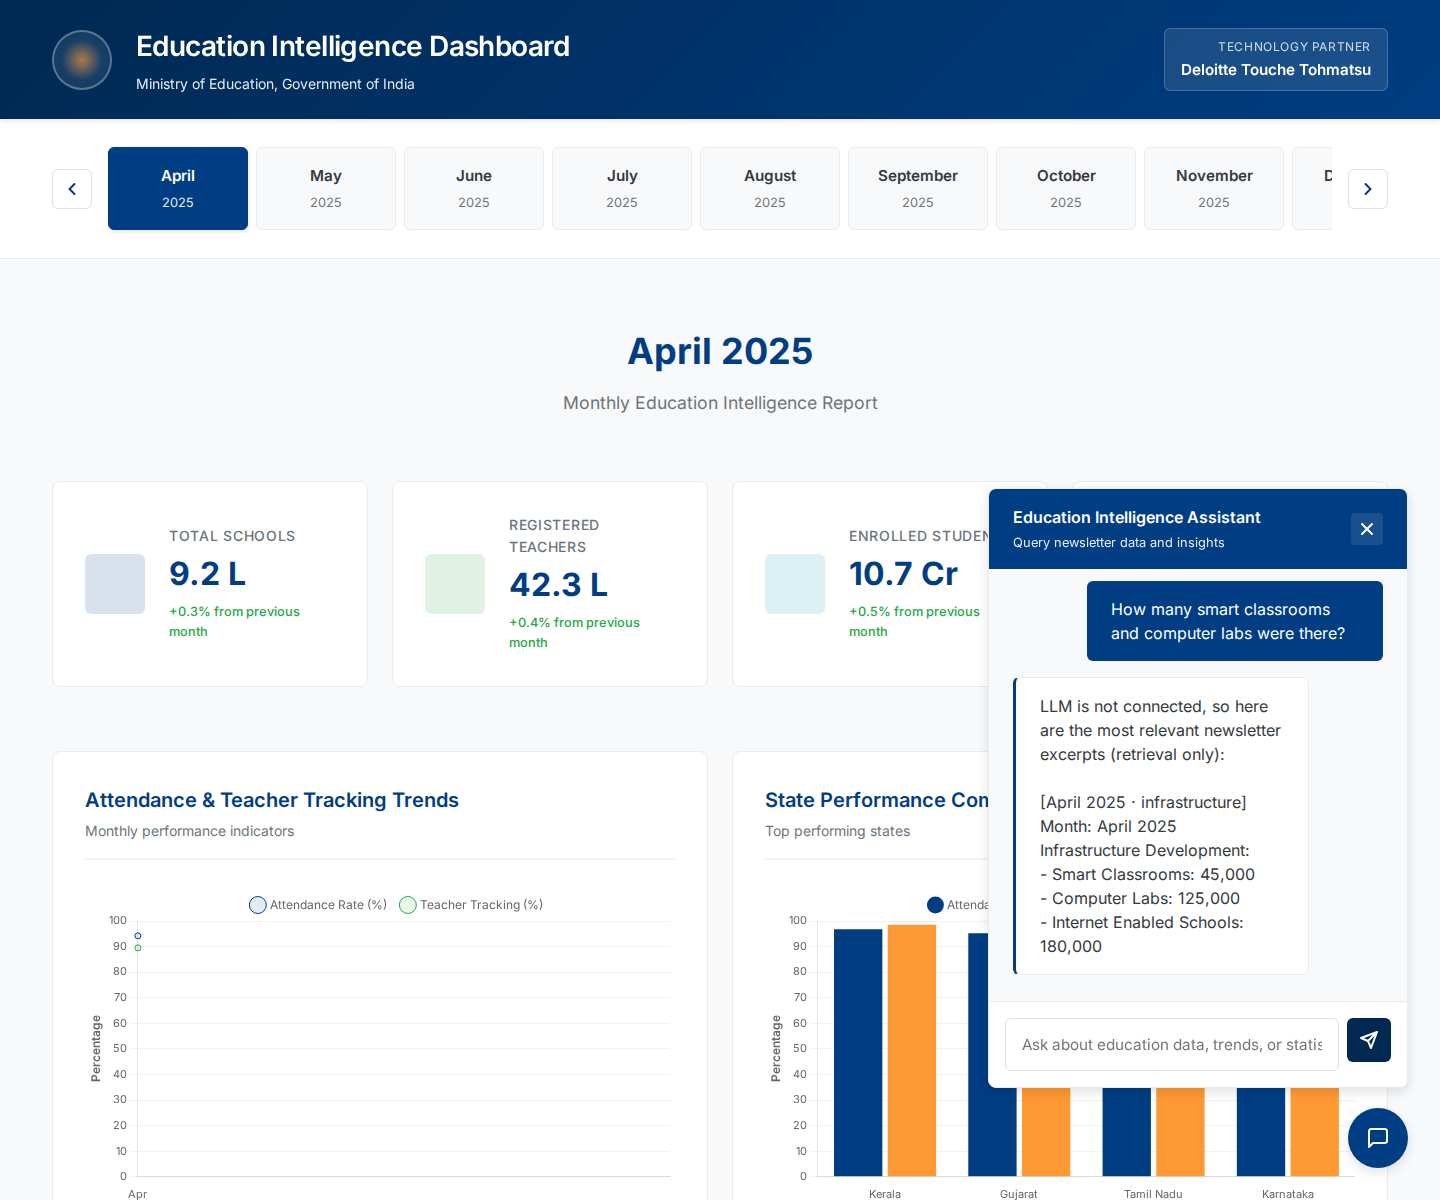
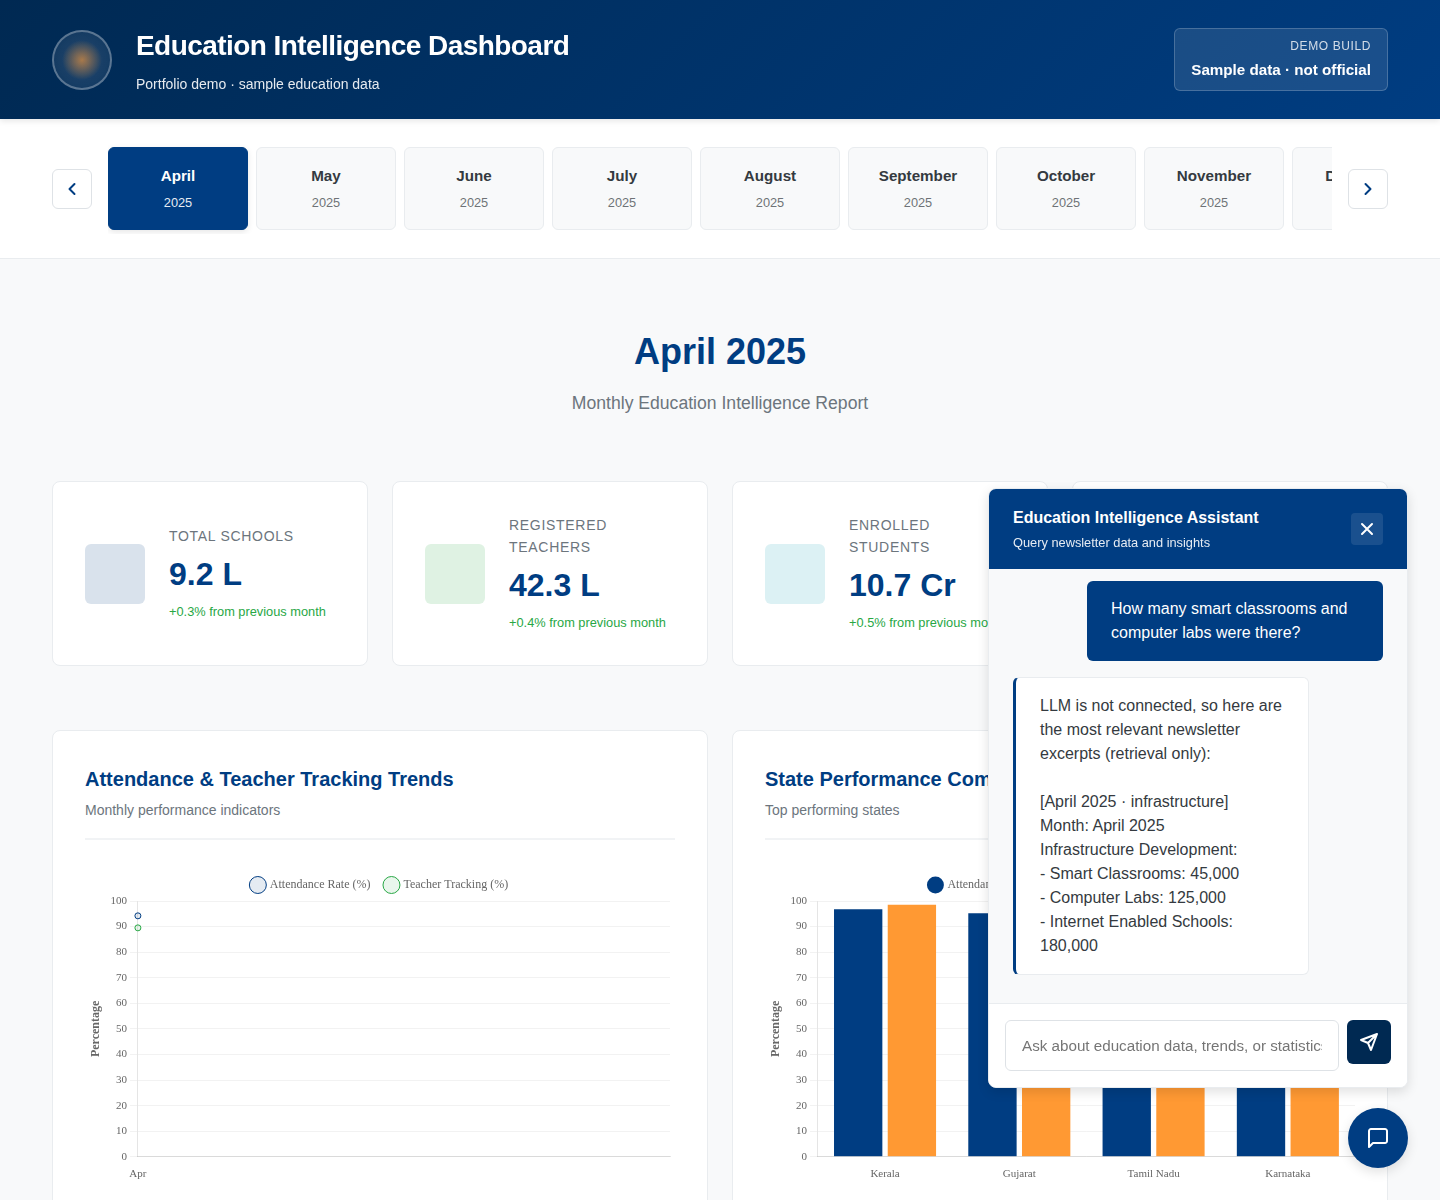
Make the repo a portfolio demo: MIT licence, sample-data labels, no official branding (#2)
- Replace the proprietary 'all rights reserved' notice with an MIT LICENSE and a
  clear portfolio-demonstration statement in the README.
- Remove the @deloitte.com contact addresses and the placeholder hotline.
- Reword the UI header, footer, file headers and LLM system prompt so nothing
  claims to be an official Government of India or Deloitte product.
- Drop the internal PR_DESCRIPTION.md.
- Recapture README screenshots with the new header.

Claude-Session: https://claude.ai/code/session_01JUKFYrHa2dmH3QAvjvrnEh

diff --git a/frontend/index.html b/frontend/index.html
@@ -3,8 +3,8 @@
 <head>
     <meta charset="UTF-8">
     <meta name="viewport" content="width=device-width, initial-scale=1.0">
-    <title>Education Intelligence Dashboard | Ministry of Education</title>
-    <meta name="description" content="Official Education Intelligence Command Center - Ministry of Education, Government of India">
+    <title>Education Intelligence Dashboard | Portfolio demo</title>
+    <meta name="description" content="Education Intelligence Dashboard: a portfolio demonstration of semantic search and a local-LLM chatbot over sample education data">
 
     <!-- Fonts -->
     <link rel="preconnect" href="https://fonts.googleapis.com">
@@ -25,13 +25,13 @@
                 <div class="govt-emblem"></div>
                 <div class="header-title">
                     <h1>Education Intelligence Dashboard</h1>
-                    <p>Ministry of Education, Government of India</p>
+                    <p>Portfolio demo · sample education data</p>
                 </div>
             </div>
             <div class="header-right">
                 <div class="partner-badge">
-                    <span class="partner-label">Technology Partner</span>
-                    <span class="partner-name">Deloitte Touche Tohmatsu</span>
+                    <span class="partner-label">Demo build</span>
+                    <span class="partner-name">Sample data · not official</span>
                 </div>
             </div>
         </div>
@@ -197,7 +197,7 @@
             <div class="chatbot-messages" id="chatbotMessages">
                 <div class="message assistant">
                     <div class="message-content">
-                        Welcome to the Education Intelligence Assistant. I can help you analyze newsletter data, compare metrics, and provide insights from the Ministry of Education reports.
+                        Welcome to the Education Intelligence Assistant. I can help you analyze newsletter data, compare metrics, and provide insights from the sample education reports.
                     </div>
                 </div>
             </div>
@@ -224,12 +224,12 @@
         <div class="container">
             <div class="footer-content">
                 <div class="footer-left">
-                    <p>&copy; 2026 Ministry of Education, Government of India</p>
+                    <p>&copy; 2026 Akshat Banga · MIT licence</p>
                     <p class="footer-subtitle">Education Intelligence Command Center</p>
                 </div>
                 <div class="footer-right">
                     <p>Powered by AI-Enhanced Analytics</p>
-                    <p class="footer-subtitle">Technology Partner: Deloitte Touche Tohmatsu</p>
+                    <p class="footer-subtitle">Independent portfolio demo; not an official government or Deloitte product</p>
                 </div>
             </div>
         </div>

diff --git a/frontend/css/style.css b/frontend/css/style.css
@@ -1,12 +1,11 @@
 /* =============================================================================
    Education Intelligence Dashboard - Government Grade Styling
-   Ministry of Education, Government of India
-   Technology Partner: Deloitte Touche Tohmatsu
+   Portfolio demonstration built on sample data (MIT licence)
    ============================================================================= */
 
 /* CSS Variables - Government Color Palette */
 :root {
-    /* Primary Colors - Ministry Blue */
+    /* Primary Colors - Navy Blue */
     --color-primary: #003d82;
     --color-primary-dark: #002952;
     --color-primary-light: #0052ad;

diff --git a/frontend/js/app.js b/frontend/js/app.js
@@ -1,7 +1,6 @@
 /**
  * Education Intelligence Dashboard
- * Ministry of Education, Government of India
- * Technology Partner: Deloitte Touche Tohmatsu
+ * Portfolio demonstration built on sample data (MIT licence)
  */
 
 // =============================================================================

diff --git a/backend/llm/llm_handler.py b/backend/llm/llm_handler.py
@@ -16,12 +16,12 @@ class LLMHandler:
         self.system_prompt = self._load_system_prompt()
 
     def _load_system_prompt(self) -> str:
-        """Load the official system prompt for the Education Intelligence Assistant"""
-        return """You are an official Education Intelligence Assistant for the Ministry of Education, Government of India.
+        """Load the system prompt for the Education Intelligence Assistant"""
+        return """You are an Education Intelligence Assistant answering questions about a sample education newsletter dataset.
 
 Your role and responsibilities:
 1. Answer strictly based on the Vidya Samiksha Kendra newsletter data provided in the context
-2. Maintain a formal, policy-aligned tone suitable for government officials
+2. Maintain a formal, policy-aligned tone suitable for education policy readers
 3. Provide accurate, data-driven insights without speculation
 4. Cite specific statistics and time periods when relevant
 5. If information is not found in the provided context, respond: "The requested information is not available in the current reporting period."
@@ -103,7 +103,7 @@ Format your responses clearly with:
 
     def _build_prompt(self, query: str, context: str) -> str:
         """Build the complete prompt with context and query"""
-        return f"""Based on the following education data from the Ministry of Education newsletter:
+        return f"""Based on the following education data from the sample education newsletter:
 
 CONTEXT:
 {context}

diff --git a/backend/main.py b/backend/main.py
@@ -1,7 +1,6 @@
 """
 Education Intelligence Dashboard - Backend API
-Ministry of Education, Government of India
-Technology Partner: Deloitte Touche Tohmatsu
+Portfolio demonstration built on sample data (MIT licence, Akshat Banga)
 """
 
 import os
@@ -33,7 +32,7 @@ load_dotenv()
 # Initialize FastAPI app
 app = FastAPI(
     title="Education Intelligence Dashboard API",
-    description="AI-powered backend for Ministry of Education Intelligence Dashboard",
+    description="AI-powered backend for the Education Intelligence Dashboard (portfolio demo, sample data)",
     version="1.0.0"
 )
 
@@ -207,7 +206,7 @@ async def startup_event():
     """Initialize components on startup"""
     print("=" * 70)
     print("Education Intelligence Dashboard - Backend API")
-    print("Ministry of Education, Government of India")
+    print("Portfolio demo · sample data")
     print("=" * 70)
 
     # Initialize RAG system

diff --git a/README.md b/README.md
@@ -1,9 +1,9 @@
-# Education Intelligence Dashboard (MoE newsletter command center)
+# Education Intelligence Dashboard
 
-> Turns monthly Ministry of Education newsletter data into an interactive dashboard with FAISS semantic search and a local-LLM (Ollama) chatbot that falls back to plain retrieval when no LLM is running.
+> Turns monthly education newsletter data (bundled sample) into an interactive dashboard with FAISS semantic search and a local-LLM (Ollama) chatbot that falls back to plain retrieval when no LLM is running.
 
 [![CI](https://github.com/Akshatb848/Deloitte-South-Asia-projects/actions/workflows/ci.yml/badge.svg)](https://github.com/Akshatb848/Deloitte-South-Asia-projects/actions/workflows/ci.yml)
-[![License](https://img.shields.io/badge/license-all%20rights%20reserved-lightgrey.svg)](#license)
+[![License](https://img.shields.io/badge/license-MIT-green.svg)](LICENSE)
 [![Python 3.10+](https://img.shields.io/badge/python-3.10%2B-blue.svg)](https://www.python.org/)
 [![FastAPI](https://img.shields.io/badge/FastAPI-backend-009688.svg)](https://fastapi.tiangolo.com/)
 
@@ -11,9 +11,9 @@
 
 ![Chatbot in retrieval-only mode answering from the newsletter data](docs/screenshots/chat-retrieval-only.png)
 
-<sub>Screenshots captured headlessly with Playwright (<code>scripts/capture_screenshots.py</code>) on a CI runner with the real <code>all-MiniLM-L6-v2</code> embedding model and <b>no LLM running</b>, so the chatbot shows its retrieval-only fallback. All figures come from the sample dataset in <code>data/newsletter_data.json</code>.</sub>
+<sub>Screenshots captured headlessly with Playwright (<code>scripts/capture_screenshots.py</code>) with <b>no LLM running</b>, so the chatbot shows its retrieval-only fallback. All figures come from the sample dataset in <code>data/newsletter_data.json</code>.</sub>
 
-Built with Deloitte (South Asia) as an Education Intelligence Dashboard for India's Ministry of Education.
+> **Portfolio demonstration.** This is an independent, runnable rebuild by Akshat Banga of a dashboard concept from his consulting work, published so reviewers can run it end to end. It uses bundled **sample data**, contains no client data or code, and is not an official product of the Government of India, the Ministry of Education or Deloitte. Names are used only to describe the context of the original work.
 
 ---
 
@@ -150,10 +150,7 @@ docs/                     API, deployment and Python-compatibility notes
 
 ## License
 
-No open-source license is granted. The original project README states:
-
-> Copyright © 2026 Ministry of Education, Government of India. All rights reserved.
-> This software is proprietary and confidential. Unauthorized copying, distribution, or use is strictly prohibited.
+[MIT](LICENSE) © 2026 Akshat Banga. The bundled dataset is illustrative sample data for demonstration only.
 
 ## Author
 

diff --git a/docs/DEPLOYMENT.md b/docs/DEPLOYMENT.md
@@ -1,7 +1,7 @@
 # Deployment Guide
 
 ## Education Intelligence Dashboard
-**Ministry of Education, Government of India**
+**Portfolio demonstration (sample data)**
 
 ---
 
@@ -514,9 +514,7 @@ docker service scale education-dashboard_backend=3
 
 ## Contact
 
-**Deployment Support**: devops@deloitte.com
-**Technical Issues**: education-dashboard@deloitte.com
-**Emergency Hotline**: +91-XXXX-XXXXXX
+Open a GitHub issue on this repository for deployment questions.
 
 ---
 

diff --git a/CHANGELOG.md b/CHANGELOG.md
@@ -159,7 +159,6 @@ None - All API endpoints and functionality remain the same
 For issues or questions:
 - Check: `docs/PYTHON_COMPATIBILITY.md`
 - Check: `docs/DEPLOYMENT.md`
-- Email: education-dashboard@deloitte.com
 - GitHub: Create an issue with version info
 
 ---

diff --git a/docs/PYTHON_COMPATIBILITY.md b/docs/PYTHON_COMPATIBILITY.md
@@ -302,7 +302,6 @@ When upgrading to Python 3.11+:
 
 For dependency issues:
 - Check: docs/TROUBLESHOOTING.md
-- Email: education-dashboard@deloitte.com
 - GitHub Issues: Include `pip freeze` output
 
 ---
